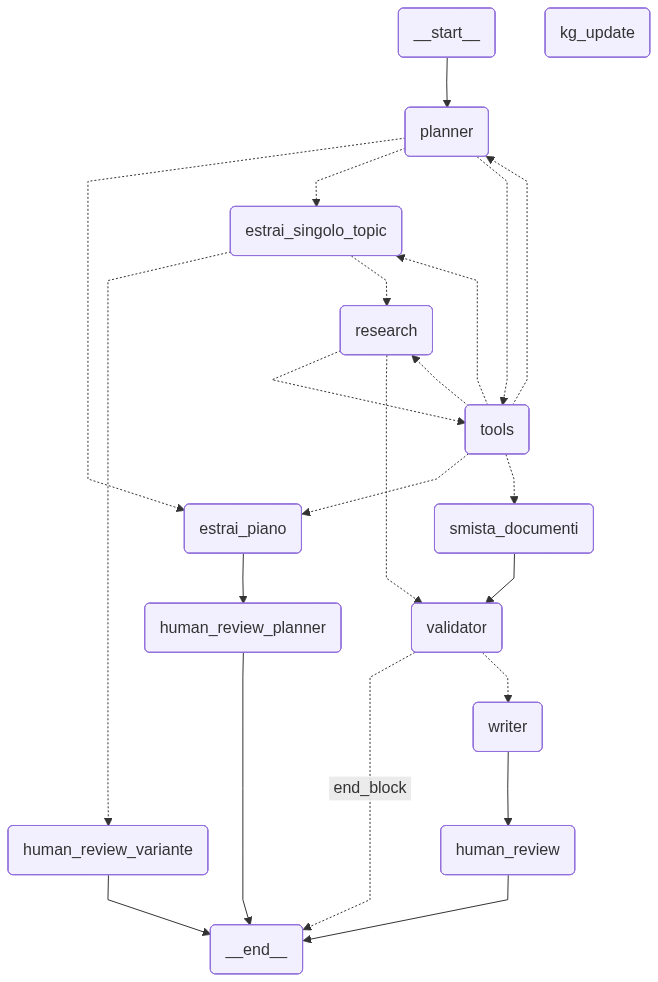
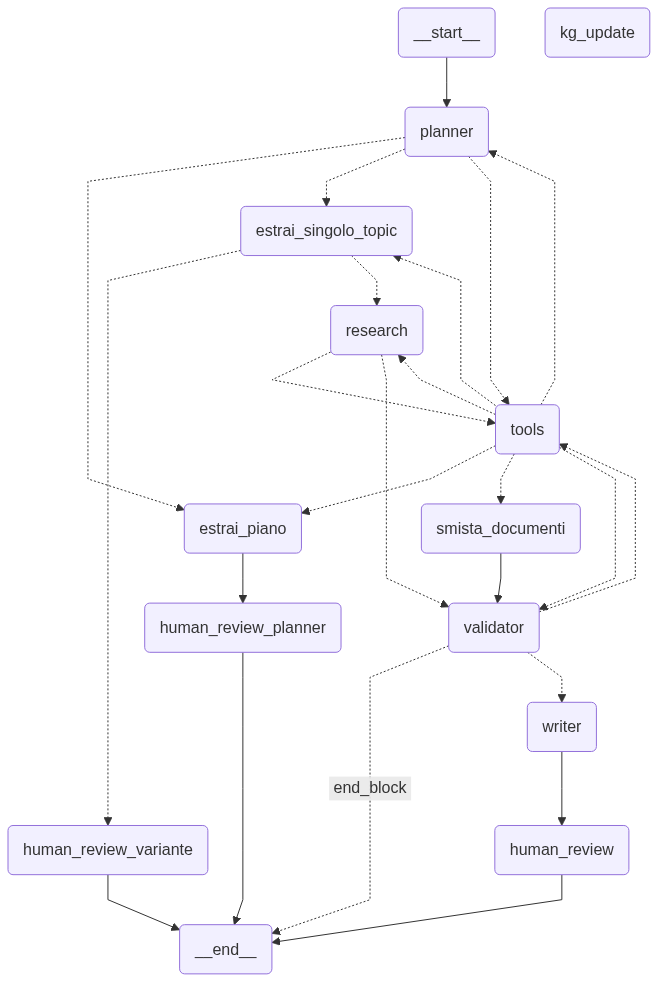
COMMIT FINALE finetuning e relazione finale

diff --git a/knowledge_graph/neo4j_manager.py b/knowledge_graph/neo4j_manager.py
@@ -768,7 +768,7 @@ class CucinaKnowledgeGraph:
             return claims
 
     def get_claim_per_retrieval(
-        self, topic: str, soglia: float = 0.70, limite: int = 5
+        self, topic: str, soglia: float = 0.75, limite: int = 5
     ):
         """
         Recupera claim tecnici cercando DIRETTAMENTE nello spazio vettoriale
@@ -783,12 +783,12 @@ class CucinaKnowledgeGraph:
             perché il loro testo parla di tecniche usate nei Cannelloni)
 
         Usato nel research node per arricchire la query HyDE prima del retrieval
-        su ChromaDB. Soglia più alta (0.70) perché qui vogliamo precisione,
+        su ChromaDB. Soglia più alta (0.75) perché qui vogliamo precisione,
         non ampiezza.
 
         Args:
             topic: Il nome della ricetta o sottoricetta da cercare.
-            soglia: Soglia minima di similarità coseno (default 0.70).
+            soglia: Soglia minima di similarità coseno (default 0.75).
             limite: Numero massimo di claim da restituire (default 5).
 
         Returns:

diff --git a/graph/workflow.py b/graph/workflow.py
@@ -492,7 +492,7 @@ builder.add_conditional_edges(
 memoria_temporanea = InMemorySaver()
 app = builder.compile(checkpointer=memoria_temporanea)
 # with open("diagramma_agente.png", "wb") as f:
-# f.write(app.get_graph().draw_mermaid_png())
+#    f.write(app.get_graph().draw_mermaid_png())
 
 
 # --------------------caso di avvio su langsmith-----------------------------

diff --git a/tools/rag_tool.py b/tools/rag_tool.py
@@ -69,7 +69,7 @@ def cerca_ricetta_nel_db(query: str) -> str:
         return "Errore di sistema: Il database locale non è inizializzato."
 
     try:
-        SOGLIA_DISTANZA = 0.22
+        SOGLIA_DISTANZA = 0.24
         risultati_con_distanza = vector_store.similarity_search_with_score(query, k=3)
 
         documenti_recuperati = []